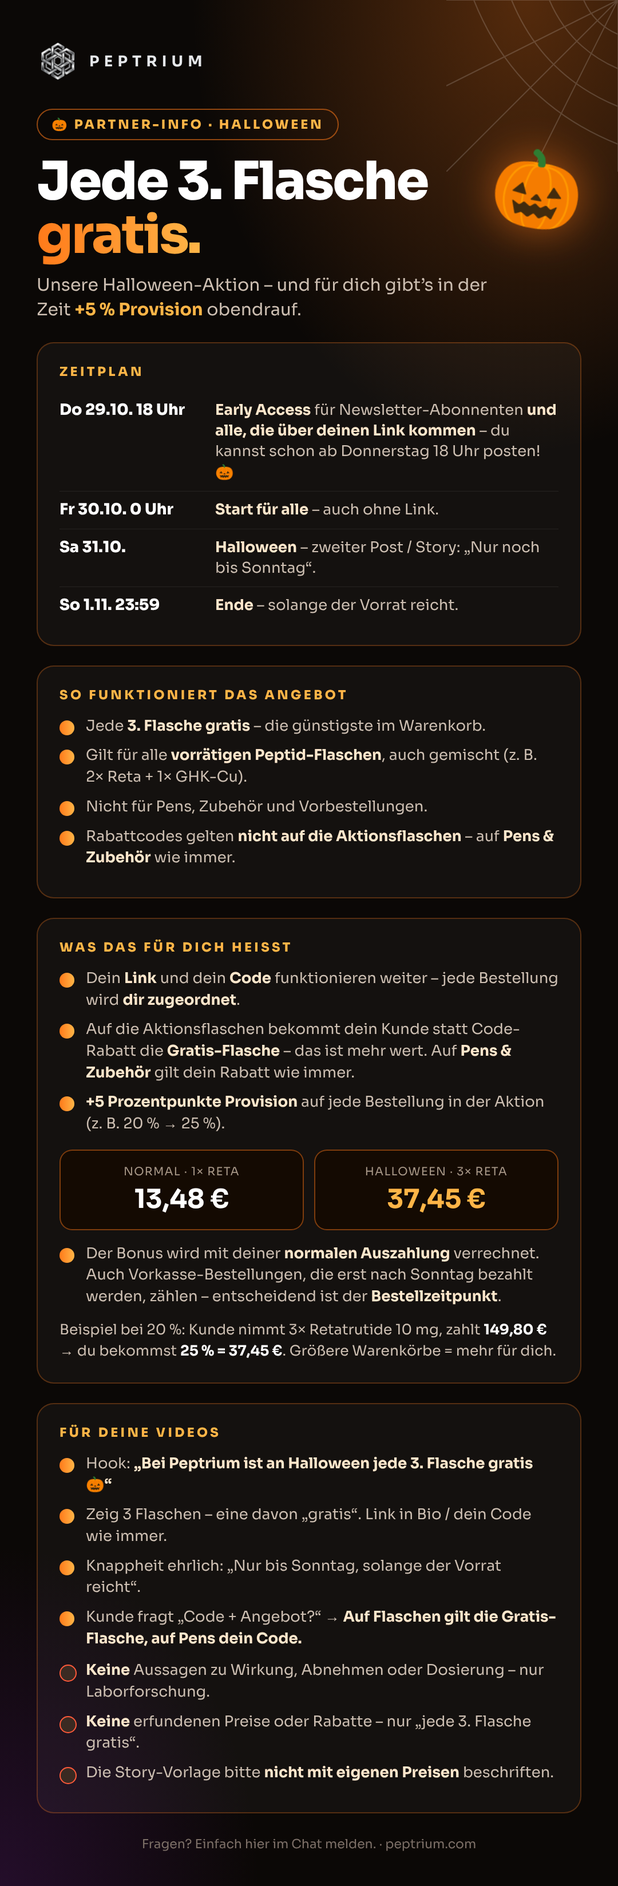
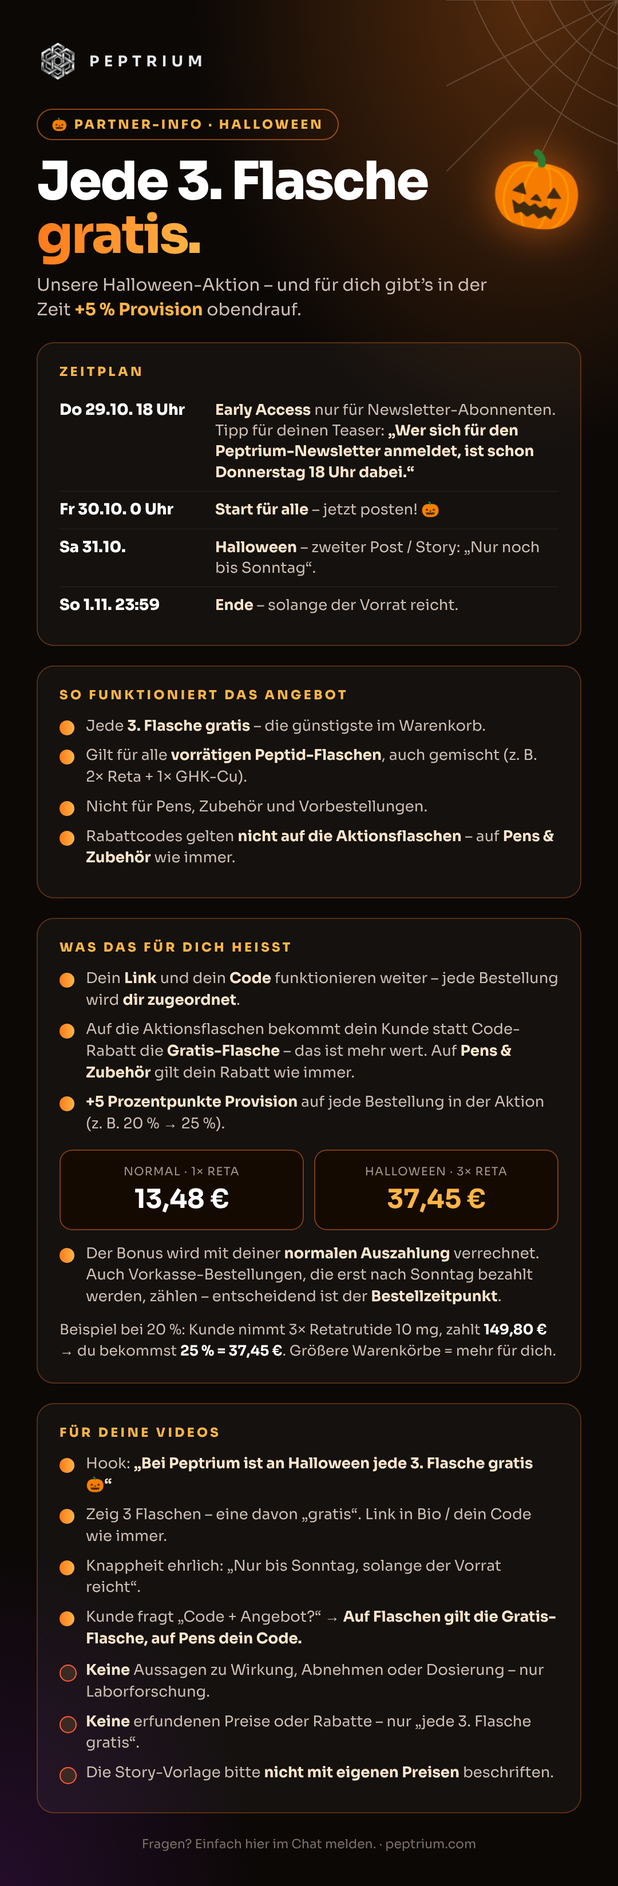
Halloween: Early Access nur für Newsletter-Abonnenten
Claude-Session: https://claude.ai/code/session_011YY7DBkbr5BcFGKyLoSbVN

Changed region(s): [[0.3361, 0.2188, 0.8556, 0.2812]]

diff --git a/drafts/halloween-2026-10-22/partner/sheet.html b/drafts/halloween-2026-10-22/partner/sheet.html
@@ -42,8 +42,8 @@ h1 span{background:linear-gradient(90deg,#FF7A1A,#FFB547);-webkit-background-cli
 <p class="lead">Unsere Halloween-Aktion – und für dich gibt’s in der Zeit <b style="color:#FFB547">+5 % Provision</b> obendrauf.</p>
 
 <div class="card"><h2>ZEITPLAN</h2><div class="tl">
-<div class="r"><div class="d">Do 29.10. 18 Uhr</div><div class="t"><b>Early Access</b> für Newsletter-Abonnenten <b>und alle, die über deinen Link kommen</b> – du kannst schon ab Donnerstag 18 Uhr posten! 🎃</div></div>
-<div class="r"><div class="d">Fr 30.10. 0 Uhr</div><div class="t"><b>Start für alle</b> – auch ohne Link.</div></div>
+<div class="r"><div class="d">Do 29.10. 18 Uhr</div><div class="t"><b>Early Access</b> nur für Newsletter-Abonnenten. Tipp für deinen Teaser: <b>„Wer sich für den Peptrium-Newsletter anmeldet, ist schon Donnerstag 18 Uhr dabei.“</b></div></div>
+<div class="r"><div class="d">Fr 30.10. 0 Uhr</div><div class="t"><b>Start für alle</b> – jetzt posten! 🎃</div></div>
 <div class="r"><div class="d">Sa 31.10.</div><div class="t"><b>Halloween</b> – zweiter Post / Story: „Nur noch bis Sonntag“.</div></div>
 <div class="r"><div class="d">So 1.11. 23:59</div><div class="t"><b>Ende</b> – solange der Vorrat reicht.</div></div>
 </div></div>

diff --git a/drafts/halloween-2026-10-22/partner/story.html b/drafts/halloween-2026-10-22/partner/story.html
@@ -25,5 +25,5 @@ h1 span{background:linear-gradient(90deg,#FF7A1A,#FFB547);-webkit-background-cli
 <div class="in"><div class="top"><img src="https://peptrium.com/wp-content/uploads/2026/08/IMG_2644-cropped-300x300.png"><b>PEPTRIUM</b></div>
 <div class="pill">🎃 HALLOWEEN-SPECIAL</div>
 <h1>Jede 3.<br>Flasche<br><span>gratis.</span></h1></div>
-<div class="bot"><div class="d">Fr 30.10. – So 1.11.</div><div class="s">Über meinen Link schon ab Do 18 Uhr</div><div class="s" style="margin-top:8px">Die günstigste zahlst du nicht · peptrium.com</div><div class="vr">● Nur solange der Vorrat reicht</div></div>
+<div class="bot"><div class="d">Fr 30.10. – So 1.11.</div><div class="s">Newsletter-Abonnenten schon ab Do 18 Uhr</div><div class="s" style="margin-top:8px">Die günstigste zahlst du nicht · peptrium.com</div><div class="vr">● Nur solange der Vorrat reicht</div></div>
 </body></html>

diff --git a/drafts/halloween-2026-10-22/sp-halloween.php b/drafts/halloween-2026-10-22/sp-halloween.php
@@ -59,11 +59,6 @@ function sp_hw_has_ea() {
     return !empty($_COOKIE['sp_hw_ea']) && hash_equals(sp_hw_cookie_val('ea'), (string) $_COOKIE['sp_hw_ea']);
 }
 
-/** Besucher kam ueber einen Partner-Link (SliceWP-Cookie) -> Early Access wie Newsletter. */
-function sp_hw_has_partner() {
-    return function_exists('slicewp_get_referrer_affiliate_id') && (int) slicewp_get_referrer_affiliate_id() > 0;
-}
-
 /** off | teaser | early | live | ended – Sicht des aktuellen Besuchers. */
 function sp_hw_state() {
     static $s = null;
@@ -74,7 +69,7 @@ function sp_hw_state() {
     $now = time();
     if ($now >= $o['end']) return $s = 'ended';
     if ($now >= $o['start']) return $s = 'live';
-    if ($now >= $o['early'] && (sp_hw_has_ea() || sp_hw_has_partner())) return $s = 'early';
+    if ($now >= $o['early'] && sp_hw_has_ea()) return $s = 'early';
     return $s = 'teaser';
 }
 
@@ -629,6 +624,6 @@ function sp_hw_render_page() {
     echo '<div style="background:#fff;border:1px solid #dcdcde;border-radius:10px;padding:18px 20px;margin:16px 0"><h2 style="margin-top:0">Links</h2>';
     echo '<p><b>Early-Access-Link für die Newsletter-Mail:</b><br><code style="user-select:all">' . esc_html($ea) . '</code></p>';
     echo '<p><b>Vorschau (nur für dich, 24 h, zeigt alles wie live – auch wenn der Schalter aus ist):</b><br><a href="' . esc_url($pv) . '" target="_blank">' . esc_html($pv) . '</a><br><a href="' . esc_url(home_url('/?sp_hw=aus')) . '" target="_blank">Vorschau beenden</a></p></div>';
-    echo '<div style="background:#fff;border:1px solid #dcdcde;border-radius:10px;padding:18px 20px;margin:16px 0"><h2 style="margin-top:0">Was zählt („jede 3. gratis“)</h2><p>' . ($names ? implode(' · ', $names) : '– keine vorrätigen Flaschen –') . '</p><p style="color:#646970">Nur vorrätige Peptid-Flaschen. Nicht: Pens, Zubehör, Vorbestellungen, Abo, Geschenke. Auf diese Flaschen während der Aktion: kein Rabattcode, kein 10-%-Partnerlink-Rabatt, kein Mengenrabatt – auf Pens/Zubehör gelten Codes und Partnerrabatt weiter. Partner-Codes ordnen immer zu. Early Access: Newsletter-Link oder Besucher über einen Partner-Link.</p></div>';
+    echo '<div style="background:#fff;border:1px solid #dcdcde;border-radius:10px;padding:18px 20px;margin:16px 0"><h2 style="margin-top:0">Was zählt („jede 3. gratis“)</h2><p>' . ($names ? implode(' · ', $names) : '– keine vorrätigen Flaschen –') . '</p><p style="color:#646970">Nur vorrätige Peptid-Flaschen. Nicht: Pens, Zubehör, Vorbestellungen, Abo, Geschenke. Auf diese Flaschen während der Aktion: kein Rabattcode, kein 10-%-Partnerlink-Rabatt, kein Mengenrabatt – auf Pens/Zubehör gelten Codes und Partnerrabatt weiter. Partner-Codes ordnen immer zu. Early Access: nur Newsletter (Link aus der Mail oder Anmeldung in der Teaser-Zeit).</p></div>';
     echo '<div style="background:#fff;border:1px solid #dcdcde;border-radius:10px;padding:18px 20px;margin:16px 0"><h2 style="margin-top:0">Ergebnis</h2><p>' . (int) $cnt . ' Bestellungen · ' . wc_price($sum) . ' · ' . (int) $free . ' Flaschen gratis</p></div></div>';
 }

diff --git a/CLAUDE.md b/CLAUDE.md
@@ -248,7 +248,7 @@ ones with established, understood behavior from this engagement. Run a
 | `sp-ek-marge.php` | (2026-10-18, live, user: "brutto bzw richtigen netto Umsatz abzüglich EK") **Peptrium Dashboard → Umsatz & Marge** — **redesigned 2026-10-18 (user: 'komplett verwirrend … schöner')**: page title 'Umsatz & Gewinn', period chips, 3 cards with waterfall rows (`.spm-*` CSS, bars = share of revenue, one-line 'why' per row): 1. 'Was du verdient hast' Umsatz − Ware − Provisionen − Versand & Verpackung = Gewinn; 2. 'Was davon wirklich auf dem Konto ist' Eingenommen − Einkäufe bezahlt − An Partner überwiesen − Versand = Geld übrig + 'Warum anders als der Gewinn?' (Einkäufe − Wareneinsatz = mehr eingekauft als verkauft; Provision verdient − überwiesen); 3. 'Wenn das Lager verkauft wird' 3 boxes (kommt noch rein Lager / + unterwegs, Geld übrig danach). Product/order/EK tables unchanged below. (`admin.php?page=sp-umsatz-marge`, default this month, quick links Letzter Monat / Seit Start). EK per product/variation in option `sp_ek_items` [post_id => usd/eur/code] — seeded from the user's supplier Excel (column "Flasche $: 1–30"): 555 RT10 9.5 $, 556 RT20 12.2, 1011 CU50 3.3, 1012 CU100 6.5, 71 MS10 7.1, 77 CP10 10, 428 BC10 6.5, 577 BT10 17.5, 578 BT5 9, 434 XA10 8, 437 SK10 8, 515 KP10 6.5, 512 TSM10 18, 521 IG1 20. **Added 2026-10-18 (user prices, €):** pens are assembled in-house from the peptide bottle + pen (10 Stk 25 € → 2,50) + cartridge (30 Stk 14 € → 0,4667) → pen variations 547/548/549 (RT20/30/40), 597/598 (CU50/100), 544/545 (MS20/40) = usd of the bottle + field `add` 2.9667 €; Spritzen 100 Stk 25 € → product 80 (10er) 2,50 €; Pen Nadeln 100 Stk 15 € → 908 (15er) 2,25 €; Injektionskit 745 = ASSUMPTION 10 Spritzen 2,50 € (contents unconfirmed); costs: DHL DE 6,19 / AT 14,90 (`ship_order_at`, by shipping country), packaging 0,20 €/package (100 Stk 20 €), import_pct 0. **Update 2026-10-18:** Bac Water 74 = 1 $ (user); every pen also contains one Bac Water → pen usd = bottle + 1 $; Alkoholtupfer 400 Stk 5 € → Injektionskit 745 = 10 Spritzen + 10 Tupfer = 2,625 € (still an assumption about the contents). ALL bottles (peptides + Bac Water) are bought in USD → keep them in the `usd` field; only Spritzen/Nadeln/Pen/Kartusche/Tupfer/Verpackung/DHL are €. Now every sold item has an EK. Later the same day: Injektionskit 745 = 10 Spritzen + 1 Bac Water + Tupfer (usd = Bac, add 2,625 €); Bac Water shipping 70 $ for 120 bottles → Bac = 1,5833 $ (74, pens = bottle + 1,5833 $, 745). Peptide shipping from the supplier was free; the user will send the stock quantities bought later. All editable in the EK table on that page ($ or €). USD→EUR from open.er-api.com (daily cron `sp_ek_rate_update`, option `sp_ek_rate`, manual override `sp_ek_rate_manual`). Costs option `sp_ek_costs` (import_pct, ship_order, pack_order). On processing/completed the unit EK is written to item meta `_sp_ek_eur` (snapshot, so later EK changes don't rewrite past months); older items use the current EK ("geschätzt"). Old GHK-Cu items (simple product 68) fall back via `sp_bbv_legacy_variation()`. Figures per order (`sp_ek_order_figures()`): Umsatz = total − refunds − top-up part (no VAT — shop has tax off), wallet-paid Abo deliveries count, top-up-only and `_sp_is_test` orders excluded; gifts count toward EK; partner commissions = non-rejected `wp_slicewp_commissions` with reference = order id; line revenue scaled by the partner negative fee. First run (Seit Start, 44 orders): Umsatz 8.093,67 €, EK 499,24 € (97 items without EK!), Provisionen 1.174,81 €. |
 | `sp-lager.php` | (2026-10-18, live, user: "ja richtig") **Peptrium Dashboard → Lager** (`admin.php?page=sp-lager`). Stock on MATERIAL level: option `sp_lager_mats` [code => name, usd|eur, qty (null = not tracked)] — codes = supplier codes (RT10/RT20/RT30/RT40, CU50/CU100, MS10/20/40, CP10, BC10, BT10/BT5, XA10, SK10, KP10, TSM10, IG1, CGL10 Cagrilintide, ML10 Melanotan 2, K80 Klow — the last 3 not in the shop) + BAC (1,5833 $), PEN/KART/SPR/NAD/TUPF (€, not counted yet → null). Recipes `sp_lager_recipes()` per product/variation id (pens = bottle + BAC + PEN + KART; 80 = 10 SPR; 908 = 15 NAD; 745 = 10 SPR + 1 BAC + 10 TUPF; legacy 68 via `sp_bbv_legacy_variation`). Deducted when an order goes to **completed** (= shipped; meta `_sp_lager_out`, only if completed after option `sp_lager_since` = 2026-10-18 12:37), added back on cancelled/refunded/failed. Columns: Bestand, reserviert (processing orders), verfügbar, unterwegs, Verkauf 30 Tage (incl. gifts), reicht noch (yellow < 21 d). Deliveries in option `sp_lager_in` (button "Angekommen – einbuchen"); seeded: Peptid-Lieferant 18.10. (RT10 40, RT20 30, CGL10 10, BC10 10, CU50 40, ML10 10, K80 10, BAC 20) + Bac-Lieferant (BAC 120). Start count 18.10.: RT10 50, RT20 30, CU100 10, BAC 40, all other bottles 0. Warning box lists in-stock shop products whose material is empty (at seed: GHK-Cu 50 + GHK pen 50, MOTS-c 10 + MOTS pens, Reta pens 30/40, CJC) — shop stock status NOT changed automatically (asked the user). Log option `sp_lager_log`. User 2026-10-18: no pre-assembled pens (assembled only when an order comes in → recipe deduction is right); accessories (PEN/KART/SPR/NAD/TUPF) are in stock but NOT counted yet → stay null until the user sends counts. **Purchases are paid when ordered (user 2026-10-18):** each delivery stores `paid` (€, frozen at creation, editable on the card; date = ordered & paid) — seeded 1.248,11 € (1403 $) + 169,02 € (190 $); 'Angekommen' only books stock. `sp_lager_purchases($start,$end)` feeds a **'Geldfluss im Zeitraum'** box in Umsatz & Marge: Eingenommen − Einkäufe bezahlt − An Partner überwiesen (`sp_aff_transfers` by date) − Versand & Verpackung = Geld übrig (the 'Ergebnis' above stays accrual: EK counted when sold). Delivery dates were assumed 18.10. — ask the user for the real order dates/amounts. **Abverkauf-Wert (2026-10-18, user):** tiles 'Umsatz bei Abverkauf – Lager' / '… inkl. unterwegs' + Rohertrag; VK per material = optional field `vk` (column 'VK €') else the shop price of the product whose recipe is exactly [code=>1] (`sp_lager_vk()`; RT20 counted as vial, not pen); regular prices, no discounts/gifts/commission. At build: Lager 9.237 €, incl. unterwegs 19.901,20 €; CGL10/ML10/K80 have no VK (not in shop) → excluded until a VK is entered. **Umsatz & Marge also shows 'Wenn das Lager komplett verkauft wird'** (via `sp_lager_summary()`): Listenpreis → realistic revenue = list × realisation ratio of the last 90 days (line revenue ÷ regular price × qty, catches bundle/partner discounts, codes, gifts; 89 % at build) − commissions at the 90-day share (14,5 %) = 'kommt noch rein'; **EK is NOT deducted there** (user 2026-10-18: purchases are already paid → shown only as grey 'Einkaufswert (schon bezahlt)'), plus 'Geld übrig danach' = Geldfluss 'Geld übrig' of the selected period + 'kommt noch rein'. Shipping not deducted. At build (Oct): kommt noch rein 7.029 € (Lager) / 15.143 € (incl. unterwegs); Geld übrig danach 10.066 € / 18.181 €. Material prices are separate from `sp_ek_items` (duplicate on purpose; keep both in sync when prices change). |
 | `sp-wartung.php` | (2026-10-19, live, OFF by default) **Wartungsmodus** after the AlexHost KVM maintenance reboot (server down ~5 min 19.10. ~15:50 Berlin; all services auto-started, nothing to reconfigure). Peptrium Dashboard → Wartungsmodus (`admin.php?page=sp-wartung`): on/off, page text, auto-off after 30 min/1/2/4 h/never (option `sp_wartung` on/until/text/by/since). When on: visitors get the dark Peptrium maintenance page (logo, "Wir sind gleich wieder für dich da.", 60 s auto-reload, Telegram + mail) with HTTP 503, `Retry-After: 600`, `X-SP-Wartung: 1`, noindex (template_redirect prio −999); admins (`manage_woocommerce`) see the shop + red bottom bar + admin-bar node; untouched: wp-admin, login, REST/Store API, admin-ajax, cron, wc-api, `?sp_health=1`. Preview for admins: `/?sp_wartung_vorschau=1`. Tested live with a 15 s auto-off window. **Unplanned server outage:** WordPress can't answer then → same page as a **Cloudflare Worker** `drafts/wartungsseite-2026-10-19/peptrium-wartung-worker.js` (logo base64-embedded, passes everything through, replaces only HTML GET responses with status 502/503/504/520–526 or a thrown fetch; skips wp-admin/wp-json/wp-content/wp-includes/login/cron, `sp_health`, and 503s carrying `X-SP-Wartung`). Must be created by the user in Cloudflare (Workers & Pages → create → paste → route `peptrium.com/*` + `www.peptrium.com/*`, failure mode open; free plan 100k requests/day — optionally add a route `peptrium.com/wp-content/*` with no Worker to save requests). Logic unit-tested locally with mocked fetch. |
-| `sp-halloween.php` | (2026-10-22, live but **OFF**, user: jede 3. gratis (die günstigste), Partner +5 %, Early Access ja, Halloween-Look, alles mit einem Schalter) **Halloween-Modus** — Peptrium Dashboard → 🎃 Halloween (`admin.php?page=sp-halloween`), option `sp_hw` {on, deko, early/start/end timestamps (default Do 29.10. 18:00 / Fr 30.10. 00:00 / So 1.11. 23:59 Berlin), bonus 5, ea + pv tokens}, log `sp_hw_log`. States `sp_hw_state()`: off/teaser/early (only with EA cookie)/live/ended; `sp_hw_active()` = live or early. **Pricing:** `woocommerce_before_calculate_totals` prio 25 (after sp-quantity-discount 20, before gift tiers 30): eligible units (`sp_hw_product_eligible()`: published, not on sale, not Zubehör cat 20, not `sp_preorder_product_ids()`, not ids 729/817/745/908/74/80/393/395/396, not any product whose title contains the word 'Pen' (pens have no own category — so NEW pens are excluded too; user 2026-10-22: new products coming in a few days must join the action automatically → they do if published, in stock, regular price without sale price, not Zubehör, not in the preorder list); skips gift lines `sp_is_gift` and Abo lines) get their REGULAR price back (cancels the bundle discount), then floor(n/3) cheapest units free via set_price; `line_subtotal` restored to regular (prio 30) so the drawer shows savings; cart item key `sp_hw_free`, item data 'Halloween: N× gratis 🎃', order item meta 'Halloween-Angebot', order meta `_sp_hw` (free count) + `_sp_hw_phase`. Gift tiers count the PAID amount. **Codes (reworked 2026-10-22, user: "setz alles um so wie du es machen würdest"):** coupons and the 10-%-Empfehlungs-Rabatt give NO discount on action bottles but keep working on pens/Zubehör/other non-action lines — `woocommerce_coupon_get_discount_amount` → 0 for `sp_hw_item_in_action()` lines; non-partner coupons are rejected only if the cart has no non-action items (`sp_hw_other_subtotal()` = 0, message 'Rabattcodes gelten in der Zeit nur für Pens und Zubehör'); partner coupons (`_sp_affiliate_id`) always valid (attribution); the Empfehlungs-Rabatt fee is recomputed on `sp_hw_other_subtotal()` × SP_AFF_REFERRAL_DISCOUNT_PCT (fees prio 98; removed if 0). Tested: pen + 3× Reta + SCHLANK10/TIKTOK10/partner cookie 40 → pen −26,49 €, Reta 1 gratis; only Reta + TIKTOK10 → rejected. **Early access also for partner-link visitors** (`sp_hw_has_partner()` = SliceWP `slicewp_aff` cookie) — tested via `pre_option_sp_hw` simulation (cookie → early/active, none → teaser). Note: execute-php snippets containing a literal `$_COOKIE['…']=` get an EMPTY response (Cloudflare WAF) — build the key as a string; `slicewp_calculate_commission_amount` prio 30 adds bonus × item amount (at checkout time). **Links:** Early Access `/?sp_hw=frueh&k=<ea>` → cookie `sp_hw_ea` (until end+1 d) → 302 /alle-produkte/ (utm kept); preview `/?sp_hw=vorschau&k=<pv>` → cookie `sp_hw_pv` 24 h = everything live for that browser even when OFF; `/?sp_hw=aus` ends it (links shown on the admin page). **Look (`deko`):** top banner `#sp-top-banner` gets class `sp-hw` + own link `#sp-hw-tb` (countdown / teaser text) + 3 flying bat SVGs; **homepage HERO takeover** (user 2026-10-22: Halloween must be visible without scrolling): JS polls for the mobile hero `.sp-hero2` (sp-home-hero-mobile.php, title/sub/cta) or desktop `#sp-hero-banner .sp-hb-*` and sets eyebrow pill '🎃 HALLOWEEN-SPECIAL', title 'Jede 3. Flasche <orange>gratis.</orange>', sub (mobile short 'Die günstigste zahlst du nicht.' — longer text overlapped the vials), orange CTA '3 für 2 sichern' (teaser: 'Früher dabei sein' → #sp-nlh), countdown chips, overlay `.sp-hw-hov` (orange/purple glow, cobweb, 3 flying bats, rising embers, pumpkins desktop only); the old strip `.sp-hw-strip` is only a fallback if no hero is found; mini strip after the `#sp-cat` hero on categories/alle-produkte; card badge '🎃 3 für 2' on `.sp-pc[data-id]` in `sp_hw_eligible_ids()` (transient `sp_hw_ids_v1` 10 min) + card text 'ab 3 Stück…' → '🎃 Jede 3. Flasche gratis'; drawer 'Bundle −X%' → '🎃 Halloween'; buybox: output buffer (template_redirect prio 7) sets tier data-disc to 0 + labels '1 gratis/1 gratis/3 gratis', flag '🎃 Halloween', JS fixes `#rx-total`/`#rx-save` (buybox JS only knows integer % of the largest tier) + box `#sp-hw-bb`; drawer box `#sp-hw-cd` (Store API cart count, 'Noch N Flaschen, dann ist eine gratis'). Tested 2026-10-22 in preview via Store API (`drafts/halloween-2026-10-22/storetest.sh`): 3× Reta10 → 149,80; 2× Reta20 + GHK50 → GHK free; 6 mixed → 2 cheapest free; TIKTOK10 rejected with message; SCHLANK10 accepted, 0 €; pens/Bac untouched. Eligible at build: CJC, Mots-C, GHK-Cu 50/100, Reta 10/20 (shop stock status — Lager says CJC/Mots/GHK50 bottles are 0!). **Added 2026-10-22 (user: "ja mach"):** (a) newsletter popup copy per phase (JS on `#sp-nlp`): teaser = '🎃 Halloween früher für Insider' + early/start dates + button 'Ja, früher dabei sein'; live = '10 % Rabatt für deine nächste Bestellung' (codes don't work during the action, code valid 30 days); (b) confirming the newsletter during teaser/early (`?sp_nl=danke`, init prio 2) sets the `sp_hw_ea` cookie → early access on that device; (c) checkout row `#sp-hw-co` '🎃 Halloween: N Flasche(n) gratis −X €' before the total (wp.data cart store, throttled subscribe; only when active, independent of `deko`); (e) honest scarcity 'solange der Vorrat reicht' (user 2026-10-22, true — stock is limited): pill `.sp-hw-vr` in the hero (mobile: first child of the CTA wrap, which is moved to bottom 64px; desktop: under the sub) — live 'Nur solange der Vorrat reicht', teaser 'Begrenzter Vorrat – Insider kaufen zuerst'; also in the live top banner, buybox box, strips and the teaser popup text; (f) 'Nur noch wenige verfügbar' replaces the buybox `.rx-stock` text (amber) on ALL product pages while the action is active (except 729/745/817), switch `sp_hw['wenig']` (checkbox in admin, default on). User decision 2026-10-22: NO stock counting ("ich weiß wie viel ich selber als vorrat habe") — a first version based on sp-lager stock was replaced; user was told false scarcity claims are a UWG risk and takes responsibility; (d) preview can show the teaser phase: `/?sp_hw=vorschau&s=teaser&k=<pv>` (cookie `sp_hw_pvs`). Note: the checkout item line shows the REGULAR line total (224,70 for 3× Reta) + 'Spare' badge because `line_subtotal` is restored — same as the existing bundle discount behaviour; Zwischensumme is correct. Open: mails (teaser 28.10., early access 29.10. 18:00, last chance), partner info mail, user's go. |
+| `sp-halloween.php` | (2026-10-22, live but **OFF**, user: jede 3. gratis (die günstigste), Partner +5 %, Early Access ja, Halloween-Look, alles mit einem Schalter) **Halloween-Modus** — Peptrium Dashboard → 🎃 Halloween (`admin.php?page=sp-halloween`), option `sp_hw` {on, deko, early/start/end timestamps (default Do 29.10. 18:00 / Fr 30.10. 00:00 / So 1.11. 23:59 Berlin), bonus 5, ea + pv tokens}, log `sp_hw_log`. States `sp_hw_state()`: off/teaser/early (only with EA cookie)/live/ended; `sp_hw_active()` = live or early. **Pricing:** `woocommerce_before_calculate_totals` prio 25 (after sp-quantity-discount 20, before gift tiers 30): eligible units (`sp_hw_product_eligible()`: published, not on sale, not Zubehör cat 20, not `sp_preorder_product_ids()`, not ids 729/817/745/908/74/80/393/395/396, not any product whose title contains the word 'Pen' (pens have no own category — so NEW pens are excluded too; user 2026-10-22: new products coming in a few days must join the action automatically → they do if published, in stock, regular price without sale price, not Zubehör, not in the preorder list); skips gift lines `sp_is_gift` and Abo lines) get their REGULAR price back (cancels the bundle discount), then floor(n/3) cheapest units free via set_price; `line_subtotal` restored to regular (prio 30) so the drawer shows savings; cart item key `sp_hw_free`, item data 'Halloween: N× gratis 🎃', order item meta 'Halloween-Angebot', order meta `_sp_hw` (free count) + `_sp_hw_phase`. Gift tiers count the PAID amount. **Codes (reworked 2026-10-22, user: "setz alles um so wie du es machen würdest"):** coupons and the 10-%-Empfehlungs-Rabatt give NO discount on action bottles but keep working on pens/Zubehör/other non-action lines — `woocommerce_coupon_get_discount_amount` → 0 for `sp_hw_item_in_action()` lines; non-partner coupons are rejected only if the cart has no non-action items (`sp_hw_other_subtotal()` = 0, message 'Rabattcodes gelten in der Zeit nur für Pens und Zubehör'); partner coupons (`_sp_affiliate_id`) always valid (attribution); the Empfehlungs-Rabatt fee is recomputed on `sp_hw_other_subtotal()` × SP_AFF_REFERRAL_DISCOUNT_PCT (fees prio 98; removed if 0). Tested: pen + 3× Reta + SCHLANK10/TIKTOK10/partner cookie 40 → pen −26,49 €, Reta 1 gratis; only Reta + TIKTOK10 → rejected. Early access is ONLY for newsletter subscribers (user 2026-10-22, after a short-lived partner-link variant was built and removed again; partners get the tip to tell followers to subscribe). Note: execute-php snippets containing a literal `$_COOKIE['…']=` get an EMPTY response (Cloudflare WAF) — build the key as a string; `slicewp_calculate_commission_amount` prio 30 adds bonus × item amount (at checkout time). **Links:** Early Access `/?sp_hw=frueh&k=<ea>` → cookie `sp_hw_ea` (until end+1 d) → 302 /alle-produkte/ (utm kept); preview `/?sp_hw=vorschau&k=<pv>` → cookie `sp_hw_pv` 24 h = everything live for that browser even when OFF; `/?sp_hw=aus` ends it (links shown on the admin page). **Look (`deko`):** top banner `#sp-top-banner` gets class `sp-hw` + own link `#sp-hw-tb` (countdown / teaser text) + 3 flying bat SVGs; **homepage HERO takeover** (user 2026-10-22: Halloween must be visible without scrolling): JS polls for the mobile hero `.sp-hero2` (sp-home-hero-mobile.php, title/sub/cta) or desktop `#sp-hero-banner .sp-hb-*` and sets eyebrow pill '🎃 HALLOWEEN-SPECIAL', title 'Jede 3. Flasche <orange>gratis.</orange>', sub (mobile short 'Die günstigste zahlst du nicht.' — longer text overlapped the vials), orange CTA '3 für 2 sichern' (teaser: 'Früher dabei sein' → #sp-nlh), countdown chips, overlay `.sp-hw-hov` (orange/purple glow, cobweb, 3 flying bats, rising embers, pumpkins desktop only); the old strip `.sp-hw-strip` is only a fallback if no hero is found; mini strip after the `#sp-cat` hero on categories/alle-produkte; card badge '🎃 3 für 2' on `.sp-pc[data-id]` in `sp_hw_eligible_ids()` (transient `sp_hw_ids_v1` 10 min) + card text 'ab 3 Stück…' → '🎃 Jede 3. Flasche gratis'; drawer 'Bundle −X%' → '🎃 Halloween'; buybox: output buffer (template_redirect prio 7) sets tier data-disc to 0 + labels '1 gratis/1 gratis/3 gratis', flag '🎃 Halloween', JS fixes `#rx-total`/`#rx-save` (buybox JS only knows integer % of the largest tier) + box `#sp-hw-bb`; drawer box `#sp-hw-cd` (Store API cart count, 'Noch N Flaschen, dann ist eine gratis'). Tested 2026-10-22 in preview via Store API (`drafts/halloween-2026-10-22/storetest.sh`): 3× Reta10 → 149,80; 2× Reta20 + GHK50 → GHK free; 6 mixed → 2 cheapest free; TIKTOK10 rejected with message; SCHLANK10 accepted, 0 €; pens/Bac untouched. Eligible at build: CJC, Mots-C, GHK-Cu 50/100, Reta 10/20 (shop stock status — Lager says CJC/Mots/GHK50 bottles are 0!). **Added 2026-10-22 (user: "ja mach"):** (a) newsletter popup copy per phase (JS on `#sp-nlp`): teaser = '🎃 Halloween früher für Insider' + early/start dates + button 'Ja, früher dabei sein'; live = '10 % Rabatt für deine nächste Bestellung' (codes don't work during the action, code valid 30 days); (b) confirming the newsletter during teaser/early (`?sp_nl=danke`, init prio 2) sets the `sp_hw_ea` cookie → early access on that device; (c) checkout row `#sp-hw-co` '🎃 Halloween: N Flasche(n) gratis −X €' before the total (wp.data cart store, throttled subscribe; only when active, independent of `deko`); (e) honest scarcity 'solange der Vorrat reicht' (user 2026-10-22, true — stock is limited): pill `.sp-hw-vr` in the hero (mobile: first child of the CTA wrap, which is moved to bottom 64px; desktop: under the sub) — live 'Nur solange der Vorrat reicht', teaser 'Begrenzter Vorrat – Insider kaufen zuerst'; also in the live top banner, buybox box, strips and the teaser popup text; (f) 'Nur noch wenige verfügbar' replaces the buybox `.rx-stock` text (amber) on ALL product pages while the action is active (except 729/745/817), switch `sp_hw['wenig']` (checkbox in admin, default on). User decision 2026-10-22: NO stock counting ("ich weiß wie viel ich selber als vorrat habe") — a first version based on sp-lager stock was replaced; user was told false scarcity claims are a UWG risk and takes responsibility; (d) preview can show the teaser phase: `/?sp_hw=vorschau&s=teaser&k=<pv>` (cookie `sp_hw_pvs`). Note: the checkout item line shows the REGULAR line total (224,70 for 3× Reta) + 'Spare' badge because `line_subtotal` is restored — same as the existing bundle discount behaviour; Zwischensumme is correct. Open: mails (teaser 28.10., early access 29.10. 18:00, last chance), partner info mail, user's go. |
 | `sp-indexnow.php` | (2026-10-11, live) **IndexNow** (Bing, Yandex, Seznam, Naver; DuckDuckGo/Ecosia/Yahoo/ChatGPT search use Bing — Google does NOT use IndexNow). Key in option `sp_indexnow_key` (32 hex), served as `/<key>.txt` by an `init` hook (prio 0, no rewrite). `save_post` on published, visible products/pages → submits the permalink on `shutdown` (max once per URL per 10 min, transient `sp_inx_<md5>`). `sp_indexnow_submit_all()` sends every sitemap URL (`sp_indexnow_all_urls()` walks the core sitemap providers, so it inherits the sitemap filters) — run once on 2026-10-11: 61 URLs → HTTP 202. Last result in option `sp_indexnow_last`. Context: user set up Bing Webmaster Tools via "Import from Google Search Console" (Google login) the same day; Cloudflare AI Crawl Control: Search + Agent = Allow, Training = Block (OpenAI/Anthropic/Perplexity), Bot Fight Mode off, Bot Preference Sync off. |
 | `sp-compliance.php` | (2026-10-11, live, user: "ja mach") **Render-time compliance fixes** (output buffer `template_redirect` prio 3 + `wp_mail` filter; no Elementor data touched). (1) Retatrutide: the `.sp-reta-desc` block containing "Abnehm-Peptide"/"24 % Körpergewichtsreduktion" is removed. (2) Peptrium-Pens: dose table `.sp-dose-table`, `.sp-dose-sub`, `.sp-dose-common` removed, title "Technische Referenz – Dosiszähler" → "Technische Daten", table rows "Maximale Dosen" and "Verabreichung (subkutan)" removed (device feature "Dosiszähler – exakt per Klick" stays). (3) **COAs don't exist yet** → while option `sp_cmp_coa` ≠ `'show'`: `.rx-coa-box` (disabled PDF button boxes, COA + CE) removed, FAQ `<details>` "Was ist ein Analysezertifikat (COA)?" removed, ~35 exact phrases in `sp_cmp_coa_map()` neutralised to "HPLC-/LC-MS-geprüft" (incl. "Janoshik" lab name on Über uns, fake-review sentences about certificates, "vollständigem Impressum" claim); mails via `sp_cmp_mail_map()`. Set `sp_cmp_coa`='show' once real COAs exist. (4) Menu: the "Nach Ziel suchen" drawer group (old goal labels "Gewichtsmanagement", "Fettverbrennung", "Anti-Aging", "Heilung") is rebuilt SERVER-SIDE as "Forschungsbereiche" with `sp_ds_menu_cats()` links (same markup as the sp-ds.php JS). Helper `sp_cmp_cut()` removes an element by depth-counting its tag. Also on 2026-10-11: product short descriptions (post_excerpt) rewritten without COA/skin claims (old in meta `_sp_excerpt_backup_20261011`; GHK-Cu no longer promises "glattere Haut"; Injektionskit no "Injizieren"); **category 17 renamed "Fettverlust" → "Stoffwechsel"** (slug `fettverlust` unchanged, old name in option `sp_cat17_name_backup`). |
 | `sp-product-about.php` | (2026-10-11, live, area `katalog`) The Elementor product templates never rendered the WooCommerce description → this shows `post_content` as section `#sp-pp-about` ("Produktinfo / Über <Name>", light card, collapsed to 300px with "Weiterlesen" when long, 2 columns ≥1024px), printed in `wp_footer` (server-side HTML for Google) and moved into `.pp-root` by JS; CSS `order:3!important` (**CSS order must be an integer** — 3.5 was silently ignored; `body.single-product .pp-root>*{order:50}` in pp.css), lands after "Passt dazu" sets, before the Lexikon. All 17 visible products got NEW descriptions (~200–250 words, du-form, research framing only: what it is, what is studied, Lieferform/Rekonstitution with links to Bac Water + Peptid-Rechner, Lagerung → Lagerungs-Guide, HPLC/LC-MS quality, Lexikon link, lab-only note; no effects, no dosing, no COA) — source `scratchpad/ptext2/texts.py`, copy in `drafts/produkttexte-2026-10-11.json`; old texts in meta `_sp_desc_backup_20261011`. **New products: fill the "Beschreibung" field → section appears automatically** (min 80 chars). |
